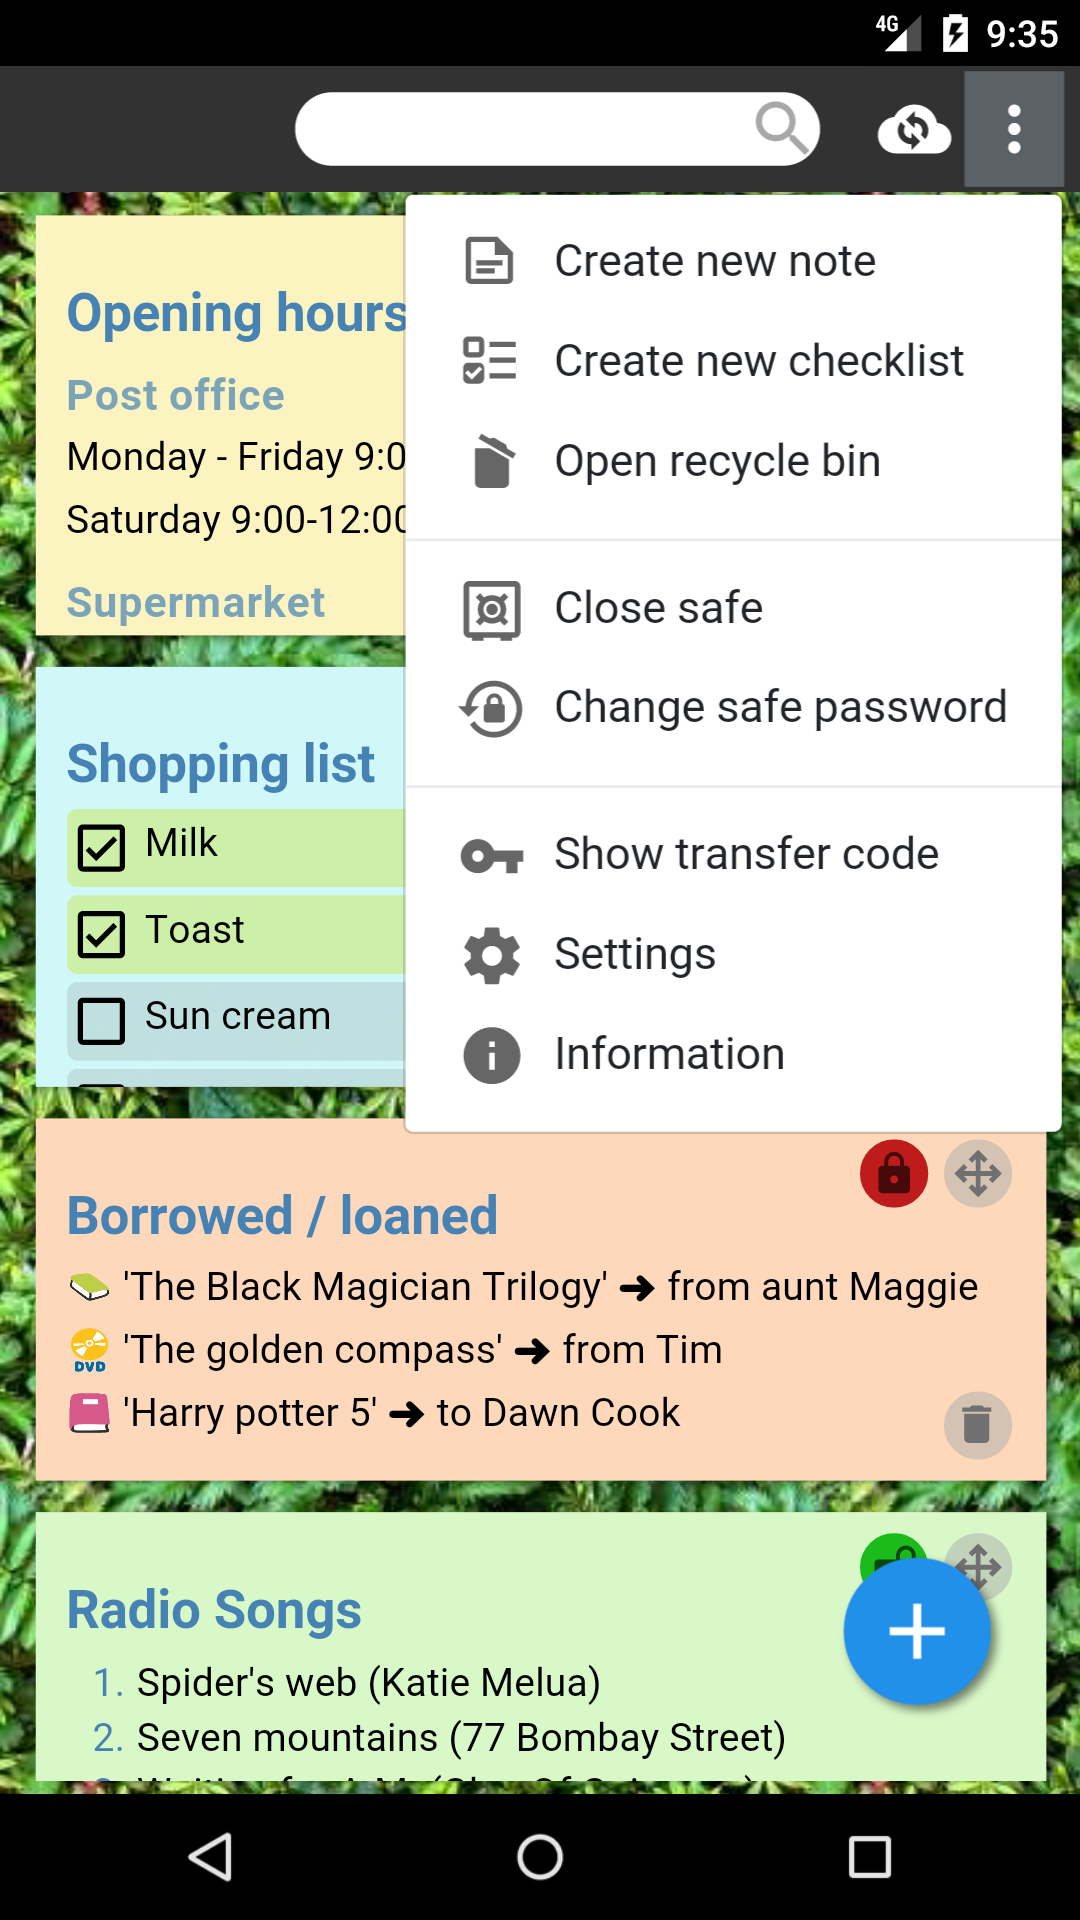
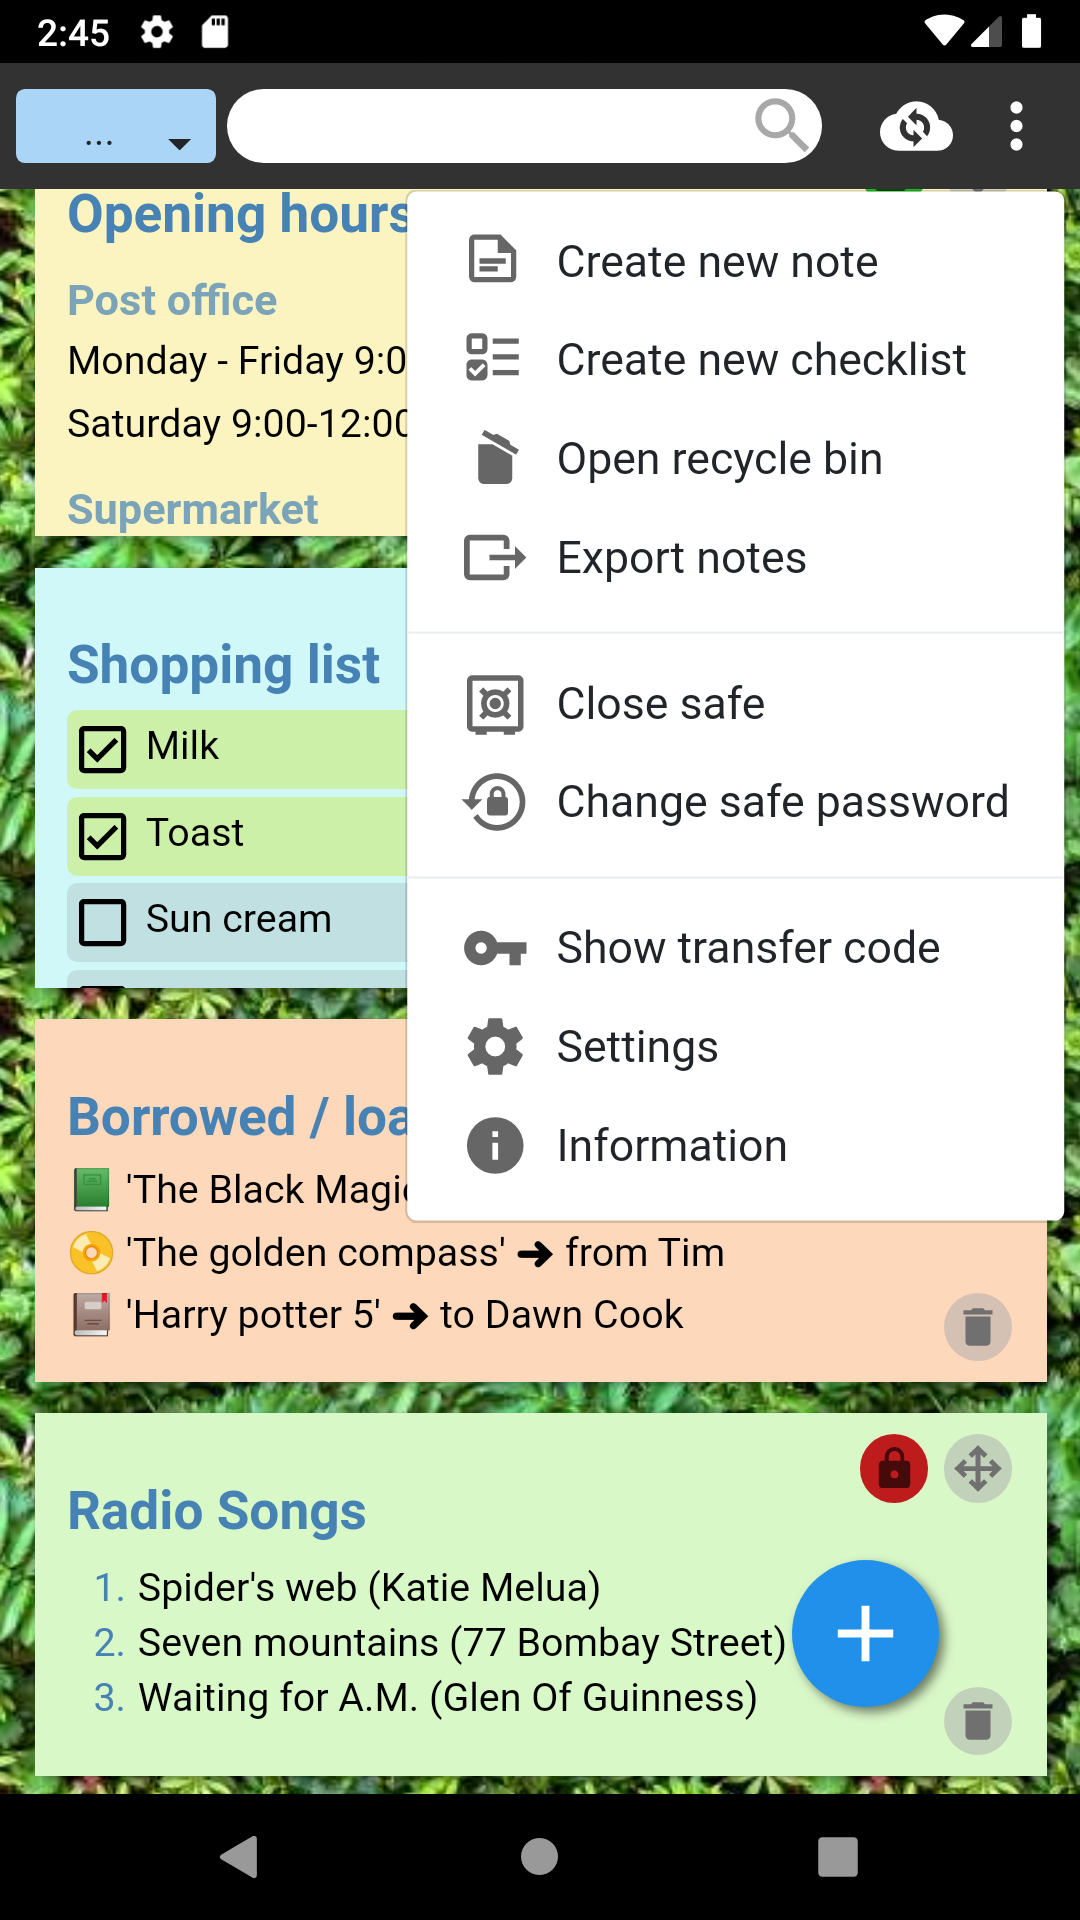
Updated screenshots for version 6.0.0

diff --git a/src/SilentNotes.Shared/Models/DemoNoteRepositoryModel.cs b/src/SilentNotes.Shared/Models/DemoNoteRepositoryModel.cs
@@ -4,6 +4,7 @@
 // file, You can obtain one at http://mozilla.org/MPL/2.0/.
 
 using System;
+using System.Collections.Generic;
 using System.Xml.Serialization;
 
 namespace SilentNotes.Models
@@ -32,6 +33,7 @@ namespace SilentNotes.Models
                 InRecyclingBin = false,
                 CreatedAt = DateTime.Parse("2017-09-10T09:25:16.6787213Z"),
                 ModifiedAt = DateTime.Parse("2018-12-18T12:52:39.8746458Z"),
+                Tags = new List<string> { "Shopping" },
                 HtmlContent = @"<h1>Opening hours</h1><h3>Post office</h3><p>Monday - Friday 9:00-12:00 / 13:00-17:00</p><p>Saturday 9:00-12:00</p><h3>Supermarket</h3><p>Monday - Sunday 7:00-22:00</p><h3>Ticket shop</h3><p>Monday - Friday 8:00-18:30</p>"
             });
 
@@ -43,7 +45,8 @@ namespace SilentNotes.Models
                 InRecyclingBin = false,
                 CreatedAt = DateTime.Parse("2017-09-10T09:25:16.6787213Z"),
                 ModifiedAt = DateTime.Parse("2018-12-18T12:52:39.8746458Z"),
-                HtmlContent = @"<h1>Shopping list</h1><p class='done'>Milk</p><p class='done'>Toast</p><p>Sun cream</p><p>Garbage bags</p><h1>Bakery</h1><p>Torte</p>"
+                Tags = new List<string> { "Shopping" },
+                HtmlContent = @"<h1>Shopping list</h1><p class='done'>Milk</p><p class='done'>Toast</p><p>Sun cream</p><p>Garbage bags</p><h1>Bakery</h1><p>Croissants</p><p>Marmelade</p><p class='disabled'>Torte</p>"
             });
 
             Notes.Add(new NoteModel
@@ -76,6 +79,7 @@ namespace SilentNotes.Models
                 InRecyclingBin = false,
                 CreatedAt = DateTime.Parse("2017-09-10T09:35:52.9190418Z"),
                 ModifiedAt = DateTime.Parse("2018-12-18T12:54:18.333087Z"),
+                Tags = new List<string> { "Shopping" },
                 HtmlContent = @"<h1>Printer refill</h1><p>brother DCP-9020CDW</p><p>Cartridge <strong>TN-241* </strong><em>(1400 pages)</em></p><p>Cartridge <strong>TN-245*</strong> <em>(2200 pages)</em></p>"
             });
 
@@ -87,6 +91,7 @@ namespace SilentNotes.Models
                 InRecyclingBin = false,
                 CreatedAt = DateTime.Parse("2018-12-18T12:53:09.3660557Z"),
                 ModifiedAt = DateTime.Parse("2018-12-18T13:25:55.8335803Z"),
+                Tags = new List<string> { "Recipes", "Cooking" },
                 HtmlContent = @"<h1>Recipe Yellow Split Pea Soup</h1><pre class='ql-syntax' spellcheck='false'>1.25 l    Water              put in pressure cooker.
 200 g     Yellow beans       add to cooker.
 2         Bouillon cube      crumble and add to cooker.
